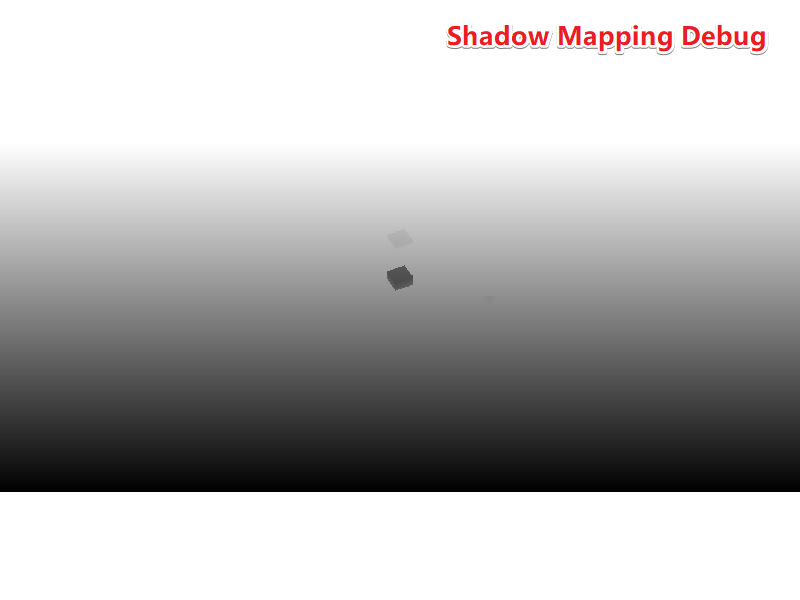
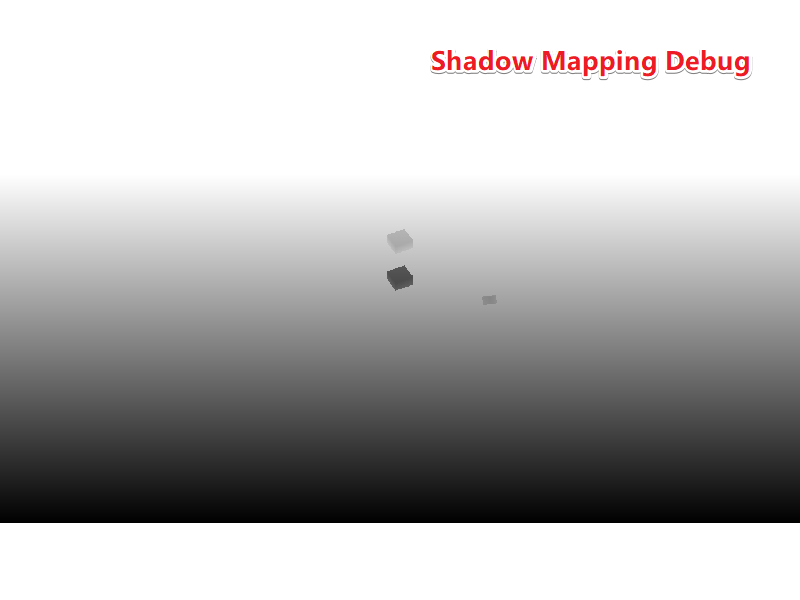
- added lighting with shadow but Z-fighting

Changed region(s): [[0.0, 0.81, 1.0, 0.87], [0.5312, 0.03, 0.9688, 0.15]]

diff --git a/project/OpenGLFW/src/advancedLighting/main_03_ShadowMapping.cpp b/project/OpenGLFW/src/advancedLighting/main_03_ShadowMapping.cpp
@@ -11,8 +11,8 @@ using namespace std;
 
 #define SHADER_PATH(SHADER_NAME) "res/shaders/04_advancedLighting/" SHADER_NAME
 
-//static bool s_isBlinn = false;
-//static bool s_isBlinnKeyPressed = false;
+static bool s_isBlinn = false;
+static bool s_isBlinnKeyPressed = false;
 
 int main()
 {
@@ -20,14 +20,17 @@ int main()
 	if (window == nullptr) return -1;
 
 	Shader simpleDepthShader(SHADER_PATH("03_shadowMappingDepth.vs"), SHADER_PATH("03_shadowMappingDepth.fs"));
+	Shader objShader(SHADER_PATH("03_shadowMappingLighting.vs"), SHADER_PATH("03_shadowMappingLighting.fs"));
 	Shader debugDepthQuad(SHADER_PATH("03_debugQuad.vs"), SHADER_PATH("03_debugQuad.fs"));
 
 	// set up vertex data(and buffers) and configure vertex attributes
 	// 3D obj
 	Texture woodTex(GL_TEXTURE_2D, "res/imgs/wood.png");
 	woodTex.setSamplerName("tex_diffuse", 0);
-	PlaneMesh plane(std::make_shared<Texture>(woodTex));
-	CubeMesh cube;
+	auto pWoodTex = std::make_shared<Texture>(woodTex);
+
+	PlaneMesh plane(pWoodTex);
+	CubeMesh cube(pWoodTex);
 
 	// configure depth map FBO
 	const unsigned int SHADOW_WIDTH = 1024, SHADOW_HEIGHT = 1024;
@@ -50,7 +53,10 @@ int main()
 	glReadBuffer(GL_NONE);
 	glBindFramebuffer(GL_FRAMEBUFFER, 0 );
 	
-	// shader confriguration
+	// shader configuration
+	objShader.use();
+	objShader.setInt("shadowMap", 1);
+
 	debugDepthQuad.use();
 	debugDepthQuad.setInt("depthMap", 0);
 
@@ -69,18 +75,18 @@ int main()
 		//input
 		// ------------------------------
 		processInput(window);
-		//s_processInputFunc = [](GLFWwindow * w) -> void {
-		//	if (glfwGetKey(w, GLFW_KEY_B) == GLFW_PRESS)
-		//	{
-		//		s_isBlinnKeyPressed = true;
-		//	}
+		s_processInputFunc = [](GLFWwindow * w) -> void {
+			if (glfwGetKey(w, GLFW_KEY_B) == GLFW_PRESS)
+			{
+				s_isBlinnKeyPressed = true;
+			}
 
-		//	if (s_isBlinnKeyPressed && glfwGetKey(w, GLFW_KEY_B) == GLFW_RELEASE) {
-		//		s_isBlinnKeyPressed = false;
-		//		s_isBlinn = ! s_isBlinn;
-		//		cout << (s_isBlinn ? "Blinn-Phong" : "Phong") << endl;
-		//	}
-		//};
+			if (s_isBlinnKeyPressed && glfwGetKey(w, GLFW_KEY_B) == GLFW_RELEASE) {
+				s_isBlinnKeyPressed = false;
+				s_isBlinn = !s_isBlinn;
+				cout << (s_isBlinn ? "Blinn-Phong" : "Phong") << endl;
+			}
+		};
 
 		// Render
 		// ------------------------------
@@ -90,60 +96,82 @@ int main()
 
 		// 1. render depth of scene to texture (from light's perspecitve)
 		glm::mat4 matrixLightP, matrixLightV;
-		glm::mat4 matrixLightSpace;
+		glm::mat4 matrixLightSpaceVP;
 		float nearPlane = 1.0f, farPlane = 7.5f;
 		matrixLightP = glm::ortho(-10.0f, 10.0f, -10.0f, 10.0f, nearPlane, farPlane);
 		matrixLightV = glm::lookAt(lightPos, V::zero, V::up);
-		matrixLightSpace = matrixLightP * matrixLightV;
+		matrixLightSpaceVP = matrixLightP * matrixLightV;
 		// render scene from light's point of view
 		simpleDepthShader.use();
-		simpleDepthShader.setMat4("lightSpaceMatrix", matrixLightSpace);
+		simpleDepthShader.setMat4("lightSpaceMatrix", matrixLightSpaceVP);
+
+		auto renderScene = [&plane, &cube](const Shader &shader) -> void {
+			// render scene
+			// floor
+			glm::mat4 matrixM = glm::mat4(1.0f);
+			matrixM = glm::scale(matrixM, glm::vec3(25, 1, 25));
+			shader.setMat4("M", matrixM);
+			plane.draw(shader);
+
+			// cubes
+			matrixM = glm::mat4(1.0f);
+			matrixM = glm::translate(matrixM, glm::vec3(0.0f, 1.5f, 0.0f));
+			matrixM = glm::scale(matrixM, glm::vec3(0.5f));
+			shader.setMat4("M", matrixM);
+			cube.draw(shader);
+
+			matrixM = glm::mat4(1.0f);
+			matrixM = glm::translate(matrixM, glm::vec3(2.0f, 0.0f, 1.0f));
+			matrixM = glm::scale(matrixM, glm::vec3(0.5f));
+			shader.setMat4("M", matrixM);
+			cube.draw(shader);
+
+			matrixM = glm::mat4(1.0f);
+			matrixM = glm::translate(matrixM, glm::vec3(-1.0f, 0.0f, 2.0f));
+			matrixM = glm::rotate(matrixM, glm::radians(60.0f), glm::normalize(glm::vec3(1.0, 0.0, 1.0)));
+			matrixM = glm::scale(matrixM, glm::vec3(0.25f));
+			shader.setMat4("M", matrixM);
+			cube.draw(shader);
+		};
 
 		//这里要调用一下 glViewport，因为 shadow maps 通常会有不同的分辨率
 		glViewport(0, 0, SHADOW_HEIGHT, SHADOW_HEIGHT);
 		glBindFramebuffer(GL_FRAMEBUFFER, depthMapFbo);
 		{
 			glClear(GL_DEPTH_BUFFER_BIT);
-			
-			// render scene
-			// floor
-			glm::mat4 matrixM = glm::mat4(1.0f);
-			matrixM = glm::scale(matrixM, glm::vec3(25, 0, 25));
-			simpleDepthShader.setMat4("M", matrixM);
-			plane.draw(simpleDepthShader);
-
-			// cubes
-			matrixM = glm::mat4(1.0f);
-			matrixM = glm::translate(matrixM, glm::vec3(0.0f, 1.5f, 0.0f));
-			matrixM = glm::scale(matrixM, glm::vec3(0.5f));
-			simpleDepthShader.setMat4("M", matrixM);
-			cube.draw(simpleDepthShader);
-
-			matrixM = glm::mat4(1.0f);
-			matrixM = glm::translate(matrixM, glm::vec3(2.0f, 0.0f, 1.0f));
-			matrixM = glm::scale(matrixM, glm::vec3(0.5f));
-			simpleDepthShader.setMat4("M", matrixM);
-			cube.draw(simpleDepthShader);
-
-			matrixM = glm::mat4(1.0f);
-			matrixM = glm::translate(matrixM, glm::vec3(-1.0f, 0.0f, 2.0f));
-			matrixM = glm::rotate(matrixM, glm::radians(60.0f), glm::normalize(glm::vec3(1.0, 0.0, 1.0)));
-			matrixM = glm::scale(matrixM, glm::vec3(0.25f));
-			simpleDepthShader.setMat4("M", matrixM);
-			cube.draw(simpleDepthShader);
+			renderScene(simpleDepthShader);
 		}
 		glBindFramebuffer(GL_FRAMEBUFFER, 0);
 
+		// 2. render scene as normal using the generated depth/shadow map
 		// reset viewport
-		glViewport(0, 0, WIDTH, HEIGHT);
-		glClear(GL_COLOR_BUFFER_BIT | GL_DEPTH_BUFFER_BIT);
+		{
+			glViewport(0, 0, WIDTH, HEIGHT);
+			glClear(GL_COLOR_BUFFER_BIT | GL_DEPTH_BUFFER_BIT);
+			objShader.use();
+			glm::mat4 matrixP = glm::perspective(glm::radians(camera.fov), (float)WIDTH / HEIGHT, 0.1f, 100.0f);
+			glm::mat4 matrixV = camera.getViewMatrix();
+			glm::mat4 matrixVP = matrixP * matrixV;
+			objShader.setMat4("VP", matrixVP);
+
+			// set light uniforms
+			objShader.setVec3("viewPos", camera.pos);
+			objShader.setVec3("lightPos", lightPos);
+			objShader.setVec3("lightColor", glm::vec3(1.0, 1.0, 1.0));
+			objShader.setMat4("matrixLightSpaceVP", matrixLightSpaceVP);
+			objShader.setFloat("isBlinn", s_isBlinn);
+			glActiveTexture(GL_TEXTURE1);
+			glBindTexture(GL_TEXTURE_2D, depthMap);
+			renderScene(objShader);
+		}
+
 		// render depth map to quad for visual debuging
 		debugDepthQuad.use();
 		debugDepthQuad.setFloat("nearPlane", nearPlane);
 		debugDepthQuad.setFloat("farPlane", farPlane);
 		glActiveTexture(GL_TEXTURE0);
 		glBindTexture(GL_TEXTURE_2D, depthMap);
-		renderScreenQuad();
+		//renderScreenQuad();
 
 		// swap buffers and poll IO events(keys pressed/released, mouse moved etc.)
 		// ------------------------------

diff --git a/project/OpenGLFW/src/renderer/CubeMesh.cpp b/project/OpenGLFW/src/renderer/CubeMesh.cpp
@@ -13,6 +13,12 @@ CubeMesh::CubeMesh()
 	setupMesh(Type::pos);
 }
 
+CubeMesh::CubeMesh(std::shared_ptr<Texture> texture)
+{
+	textures.push_back(texture);
+	setupMesh(Type::posNormalUV);
+}
+
 CubeMesh::CubeMesh(std::vector<std::shared_ptr<Texture>> textures)
 	: textures(textures)
 {

diff --git a/project/OpenGLFW/src/renderer/CubeMesh.h b/project/OpenGLFW/src/renderer/CubeMesh.h
@@ -25,6 +25,7 @@ public:
 
 public:
 	CubeMesh();
+	CubeMesh(std::shared_ptr<Texture> texture);
 	CubeMesh(std::vector<std::shared_ptr<Texture>> textures);
 	~CubeMesh();
 
